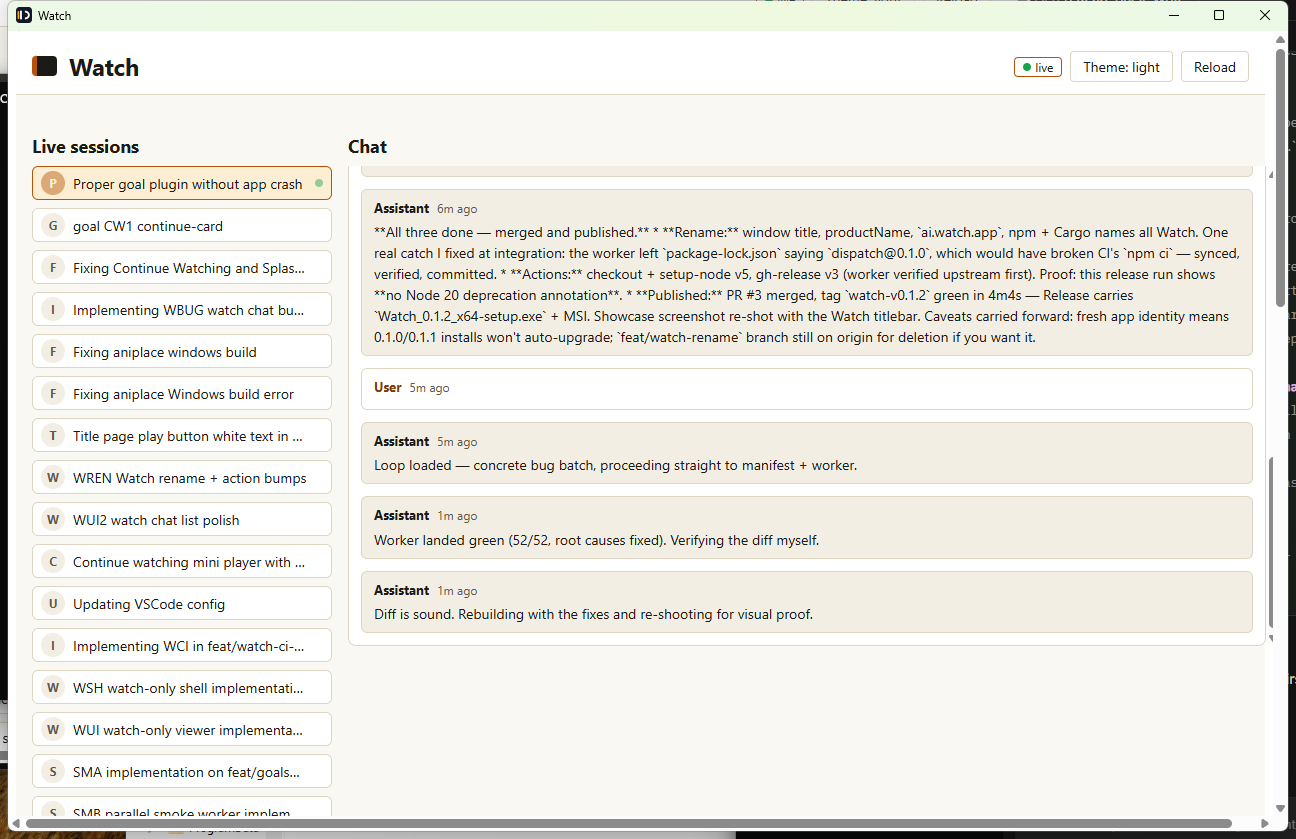
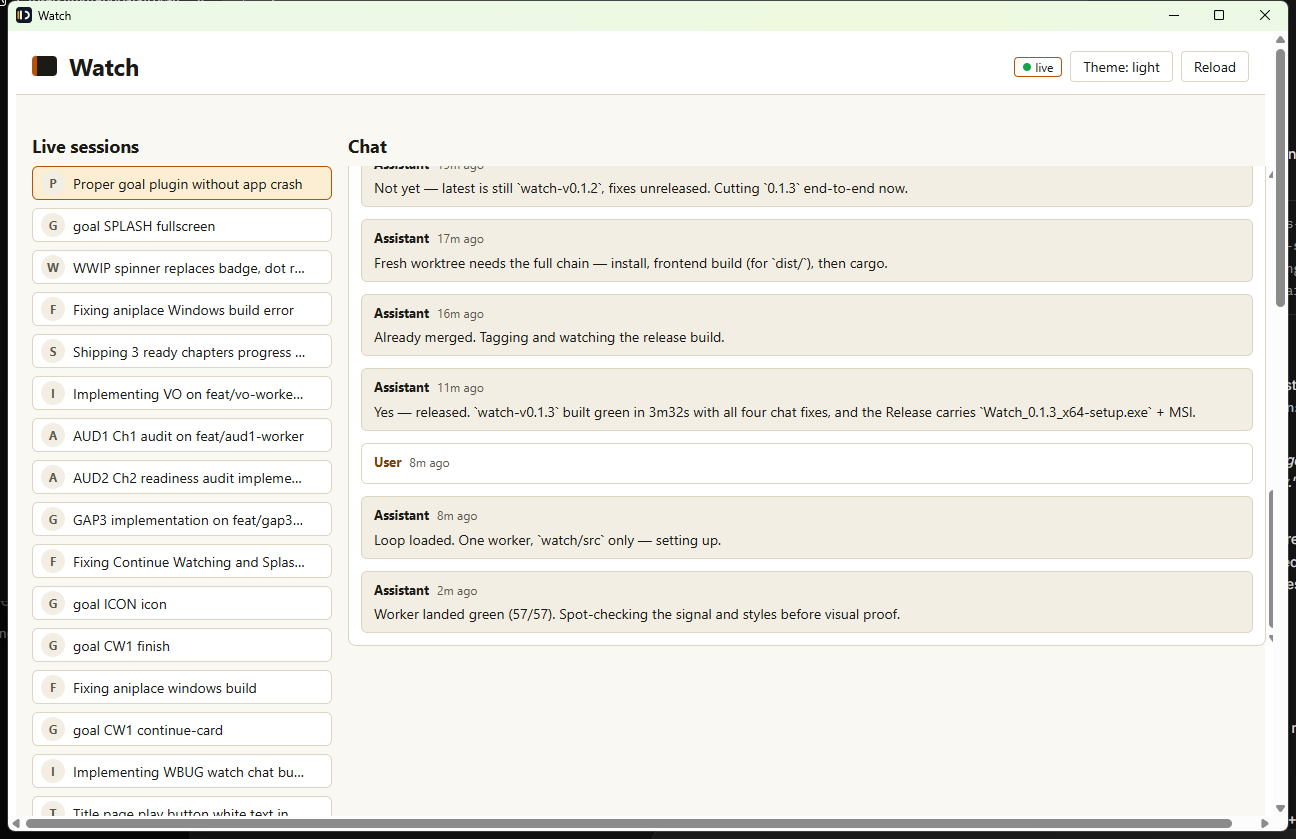
integrate: manifest log + refreshed shot (spinner build)

diff --git a/.opencode/goal-loop/watch-wip/reqs-manifest.md b/.opencode/goal-loop/watch-wip/reqs-manifest.md
@@ -1,0 +1,15 @@
+# Goal: WIP spinner replaces badge on working sessions, green dot removed
+Base: 534a071 | Date: 2026-10-13
+- [ ] REQ-01 Animated "working" indicator that REPLACES the session's letter badge while that session is actually working (truthful signal from available data, no timers)
+- [ ] REQ-02 Remove the green selected-card dot (duplicates the progress indicator)
+- [ ] REQ-03 Keep selected-card highlight + badge behavior for idle sessions; tsc + vitest green
+## DAG
+- REQ-01: no deps (includes signal investigation)
+- REQ-02: no deps
+- REQ-03: after REQ-01..02
+## Log
+- 2026-10-13 WWIP worker done: spinner swaps badge on running tools only,
+  green dot deleted, tsc clean, vitest 57/57, ASCII-clean.
+- 2026-10-13 integration: visual proof passes (dot gone, badges + selected
+  border intact; no live running tools at shot time so spinner covered by
+  unit tests, not the still); refreshed `docs/watch.png`.
